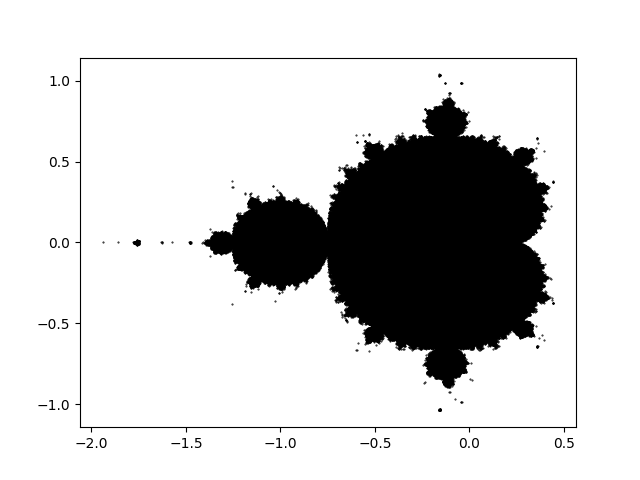
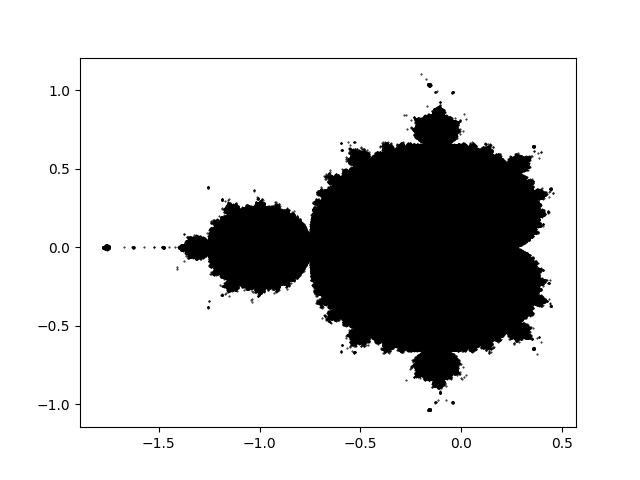
z_notM deleted
Memory error, so I deleted the usless vector z_notM of the points outside the Mandelbrot set.

diff --git a/Mandelbrot_set.py b/Mandelbrot_set.py
@@ -15,7 +15,7 @@ start_time = time.time()
 
 # Define plot features
 
-points=5000000
+points=10000000
 iters=100
 
 x_min = -2.
@@ -33,7 +33,8 @@ y = np.random.rand(points)*(y_max-y_min) + y_min
 z = []
 
 for (a, b) in zip(x, y) :
-    z += [complex(a, b)]
+    zz = complex(a, b)
+    z += [zz]
 
 z = np.array(z,complex)
 
@@ -52,16 +53,19 @@ for i in range(0, points):
             control[i]=1
             break
         old_z=new_z
+    prog=(i*100.)/points
+    if prog==(i*100.)//points:
+        print 'Progress: ', int(prog),'%'
 
 z_M = []
-z_notM = []
+#z_notM = [] #>>>>>>>> useless, I need memory
 
 for i in range(0, points):
     if control[i]==0: z_M += [z[i]]
-    else: z_notM += [z[i]]
+    #else: z_notM += [z[i]]
 
 z_M = np.array(z_M,complex)
-z_notM = np.array(z_notM,complex)
+#z_notM = np.array(z_notM,complex)
 
 print 'Percentage of Mandelbrot points: ', len(z_M)*100/points,'%'
 
@@ -71,7 +75,8 @@ print 'Percentage of Mandelbrot points: ', len(z_M)*100/points,'%'
 s=0.9
 plt.plot(z_M.real,z_M.imag,'k.',ms=s)
 
-print "Time: %s seconds" % (time.time() - start_time)
+time = time.time() - start_time
+print 'Time: ', time//60, 'min ', time%60, 's'
 
 plt.show()
 
